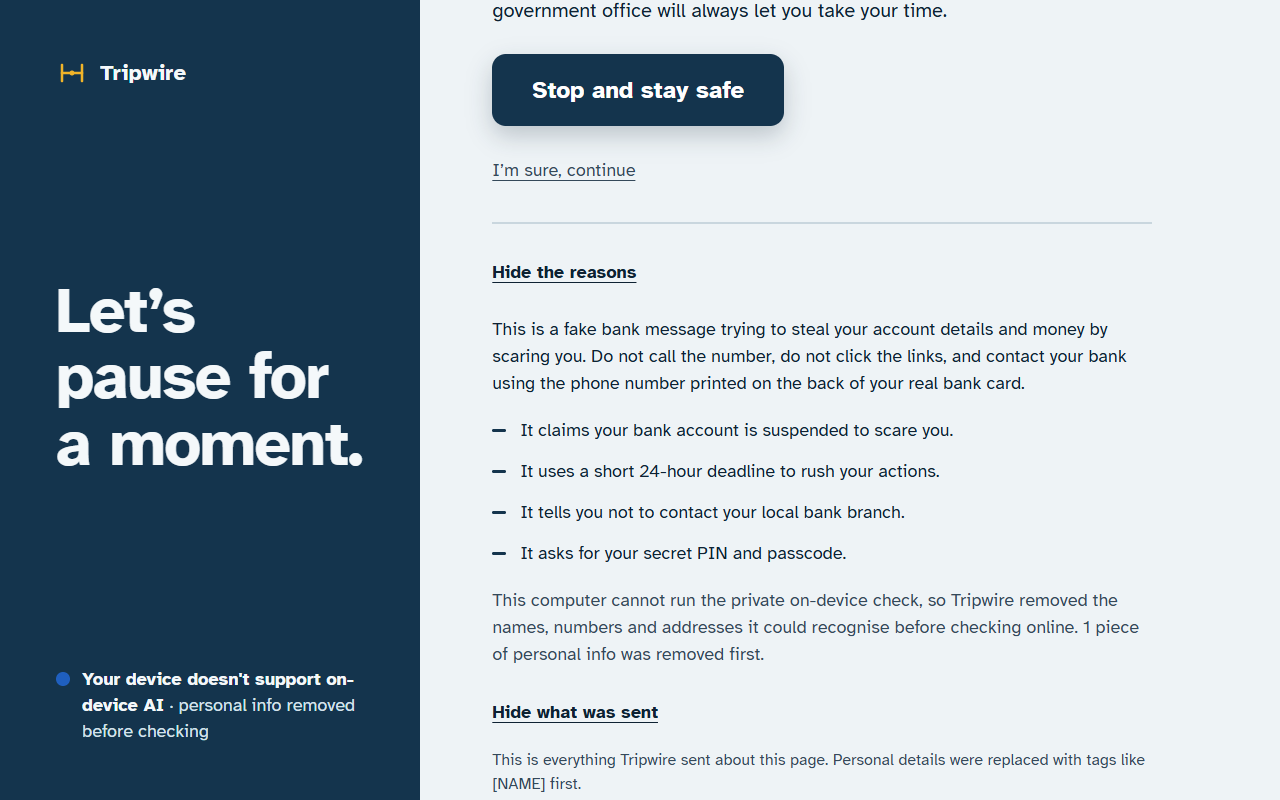
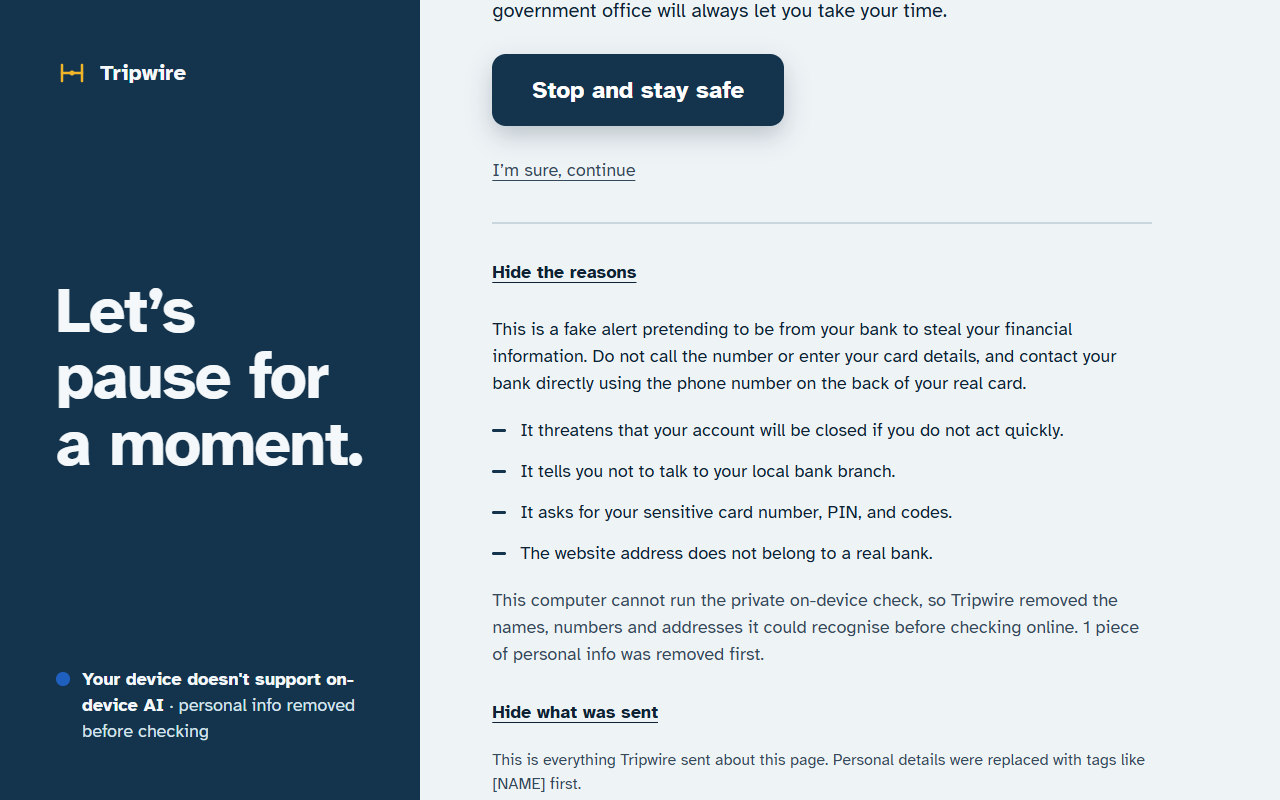
Say so while a held call or card field waits for its check; state App Check and pairing limits plainly
- A phone link or card field held for a check shows a notice instead of looking ignored
- The card field stays held until the check answers, not for a fixed 8 seconds
- Hosted test covers the held phone link; README states the debug-token and six-digit-code limits

diff --git a/src/entrypoints/content/index.tsx b/src/entrypoints/content/index.tsx
@@ -20,6 +20,7 @@ import type { Trigger, Verdict } from '../../inference/schemas';
 import { send, type AssessReply, type ToContent } from '../../messaging';
 import { describeField, isCardField, mayInspectValue, valueIsCardNumber } from '../../tripwires/cardField';
 import { Banner } from '../../ui/Banner';
+import { BANNER } from '../../ui/copy';
 import { applyLocale } from '../../ui/locale';
 import { Pause } from '../../ui/Pause';
 
@@ -37,7 +38,11 @@ const ACTION_COOLDOWN_MS = 8_000;
 const GIFT_FIELD = /gift\s*-?\s*card|card\s*(?:pin|code)|claim\s*code|redemption\s*code|voucher\s*code|itunes|google\s*play\s*code|steam\s*(?:wallet|code)/i;
 const WALLET_FIELD = /wallet|bitcoin|\bbtc\b|\beth(?:ereum)?\b|\busdt\b|crypto|recipient\s*address/i;
 
-type View = { kind: 'none' } | { kind: 'banner'; verdict: Verdict } | { kind: 'pause'; verdict: Verdict };
+type View =
+  | { kind: 'none' }
+  | { kind: 'checking'; what: 'call' | 'card' }
+  | { kind: 'banner'; verdict: Verdict }
+  | { kind: 'pause'; verdict: Verdict };
 
 export default defineContentScript({
   matches: ['http://*/*', 'https://*/*'],
@@ -113,6 +118,13 @@ function startTopFrame(ctx: ContentScriptContext): void {
   function App() {
     const v = useSyncExternalStore(subscribe, () => view);
     if (v.kind === 'banner') return <Banner verdict={v.verdict} onDismiss={dismiss} />;
+    if (v.kind === 'checking') {
+      return (
+        <div className="tw tw-checking" role="status">
+          {v.what === 'call' ? BANNER.checkingCall : BANNER.checkingCard}
+        </div>
+      );
+    }
     if (v.kind === 'pause') {
       return (
         <div className="tw-overlay">
@@ -206,6 +218,26 @@ function startTopFrame(ctx: ContentScriptContext): void {
   }, 400);
   ctx.onInvalidated(() => clearInterval(guard));
 
+  /**
+   * While a held action waits for its check, say so. A check can take several seconds, and a
+   * click that seems to do nothing looks broken. Shown only if the wait is long enough to notice.
+   */
+  function whileChecking<T>(what: 'call' | 'card', job: Promise<T>): Promise<T> {
+    let done = false;
+    const timer = setTimeout(() => {
+      void ensureUi()
+        .then(() => {
+          if (!done && view.kind === 'none') setView({ kind: 'checking', what });
+        })
+        .catch(() => undefined);
+    }, 350);
+    return job.finally(() => {
+      done = true;
+      clearTimeout(timer);
+      if (view.kind === 'checking') setView({ kind: 'none' });
+    });
+  }
+
   function hide(): void {
     unlock?.();
     if (view.kind !== 'none') setView({ kind: 'none' });
@@ -293,15 +325,17 @@ function startTopFrame(ctx: ContentScriptContext): void {
         const info = describeField(el);
         if (info.type.toLowerCase() === 'password') return;
         if (isCardField(info)) {
-          // If this page has not been judged yet, the field is held (read-only) for the few
-          // seconds the check takes, so a card number cannot be typed before the answer.
+          // If this page has not been judged yet, the field is held (read-only) until the check
+          // answers, so a card number cannot be typed first. The check itself is bounded by the
+          // router's timeouts; the cap here is only a backstop so a field is never stuck.
           const hold = !last && !acknowledged && !el.readOnly;
           if (hold) el.readOnly = true;
           const release = () => {
             if (hold) el.readOnly = false;
           };
-          const limit = setTimeout(release, 8000);
-          return void onAction('card_entry').finally(() => {
+          const limit = setTimeout(release, 40_000);
+          const check = onAction('card_entry');
+          return void (hold ? whileChecking('card', check) : check).finally(() => {
             clearTimeout(limit);
             release();
           });
@@ -341,12 +375,14 @@ function startTopFrame(ctx: ContentScriptContext): void {
         const link = target instanceof Element ? target.closest<HTMLAnchorElement>('a[href^="tel:" i]') : null;
         if (!link) return;
         if (acknowledged || view.kind === 'pause') return;
+        // Already checking for an earlier click: keep holding, do not start a second check.
+        if (view.kind === 'checking') return void event.preventDefault();
         if (last && last.state !== 'safe') return void onAction('phone_call', event);
         // Hold the call until the page AS IT IS NOW has been checked, so the dialer cannot open first
         // (a page may have changed since it was last read).
         event.preventDefault();
         const href = link.href;
-        void assess('phone_call').then((reply) => {
+        void whileChecking('call', assess('phone_call')).then((reply) => {
           if (reply?.verdict.state === 'tripped' && !reply.acknowledged) show({ kind: 'pause', verdict: reply.verdict });
           else location.href = href;
         });

diff --git a/src/ui/tripwire.css b/src/ui/tripwire.css
@@ -413,6 +413,22 @@
 }
 
 /* ---------- in-page: caution banner ---------- */
+/* A held action (a call, a card field) is waiting for its check: say so, so the click never looks ignored. */
+.tw-checking {
+  position: fixed;
+  left: 50%;
+  bottom: 24px;
+  transform: translateX(-50%);
+  z-index: 2147483646;
+  max-width: min(640px, calc(100vw - 32px));
+  padding: 16px 24px;
+  background: var(--tw-deep);
+  color: var(--tw-on-deep);
+  font: 700 1.25rem/1.4 var(--tw-font);
+  border-radius: var(--tw-radius-lg);
+  box-shadow: var(--tw-shadow-float);
+}
+
 .tw-banner {
   position: fixed;
   top: 16px;

diff --git a/src/ui/locales/fr.ts b/src/ui/locales/fr.ts
@@ -53,6 +53,8 @@ export const FR: LocaleBundle = {
     sub: 'Vous n’êtes pas obligé de faire ce que cette page demande.',
     failSafeHeadline: 'Tripwire n’a pas pu finir de vérifier cette page.',
     failSafeSub: 'Par prudence, considérez comme suspect tout ce qu’elle vous demande.',
+    checkingCall: 'Un instant. Tripwire vérifie cette page avant de lancer l’appel.',
+    checkingCard: 'Un instant. Tripwire vérifie cette page avant que vous ne saisissiez un numéro de carte.',
   },
   TRIP_LEAD: {
     passive: 'Cette page présente des signes nets d’arnaque.',

diff --git a/src/ui/locales/es.ts b/src/ui/locales/es.ts
@@ -53,6 +53,8 @@ export const ES: LocaleBundle = {
     sub: 'No tiene que hacer nada de lo que pide esta página.',
     failSafeHeadline: 'Tripwire no pudo terminar de revisar esta página.',
     failSafeSub: 'Para estar seguro, trate como sospechoso cualquier cosa que le pida.',
+    checkingCall: 'Un momento. Tripwire está revisando esta página antes de iniciar la llamada.',
+    checkingCard: 'Un momento. Tripwire está revisando esta página antes de que escriba un número de tarjeta.',
   },
   TRIP_LEAD: {
     passive: 'Esta página muestra señales claras de estafa.',

diff --git a/src/ui/copy.ts b/src/ui/copy.ts
@@ -81,6 +81,8 @@ export const BANNER = {
   sub: 'You do not have to do anything this page asks.',
   failSafeHeadline: 'Tripwire could not finish checking this page.',
   failSafeSub: 'To be careful, treat anything it asks for as suspicious.',
+  checkingCall: 'One moment. Tripwire is checking this page before the call starts.',
+  checkingCard: 'One moment. Tripwire is checking this page before you type a card number.',
 } as const;
 
 /* ------------------------------------------------------------------ */

diff --git a/README.md b/README.md
@@ -141,8 +141,8 @@ What Tripwire does about a page that fights back ([tests/hostile.test.ts](tests/
 | Press "I'm sure, continue" itself | Clicks made by page script are marked untrusted by the browser and ignored; only a real click or key press counts. Checked end to end. |
 | Wear the checker out with harmless changes, then show the scam | The scan budget refills with time (one scan every 20 seconds), so it cannot be spent for good. |
 | Delete the warning from the page | Tripwire puts it back and re-locks the page. If the page keeps removing it, the pause moves to an extension page the site cannot touch. |
-| Open the phone dialer before the check finishes | A phone link on a page that has not been checked yet is held until it has. |
-| Get a card number typed before the check finishes | A card field on a page that has not been checked yet is held read-only until it has. |
+| Open the phone dialer before the check finishes | A phone link on a page that has not been checked yet is held until it has, with a notice saying the page is being checked. |
+| Get a card number typed before the check finishes | A card field on a page that has not been checked yet is held read-only until the check answers, with the same notice. |
 | Find out the visitor has Tripwire, and behave | The extension answers a "are you there" ping only on the practice pages, never on ordinary sites. |
 | Skip the suspicious page entirely (a caller says "go to this site and install this") | A remote-access tool download always asks, once per tool, even with no suspicious page open. |
 
@@ -253,6 +253,8 @@ With the on-device model, 36 of the 50 samples were decided on the device, 8 nee
 | First run, original design | 6 / 10 | 0 / 16 | median 51 s |
 | After the fixes below | **16 / 16** | **0 / 28** | **median 3.7 s, 90th percentile 7.4 s** |
 
+Read the second row with care: the fixes were made after seeing the first run, so only 6 of the 16 scams and 11 of the 28 pages were still unseen when they were run. Details below the list.
+
 The first run was a bad result and it was right:
 
 - **Four of ten scams never reached a model.** The keyword gate was tuned to the main corpus and missed a "grandchild needs bail" message, a utility shut-off notice, a refund call and a customs fee. The gate now looks at the shape of the request.
@@ -267,7 +269,7 @@ Because those fixes were made after seeing round one, a second round of six new 
 - End-to-end in Chromium (`npm run e2e`): 13 of 13 steps, including settings, the paused download, and a page that keeps deleting the warning. Result file: [eval-results/e2e.json](eval-results/e2e.json).
 - Live against the real project (`npm run live`): App Check token, hybrid call, Spanish explanations, pairing, single-use code, family alert. Result file: [eval-results/live-checks.json](eval-results/live-checks.json).
 - **App Check refuses robots, including ours.** On 16 Nov the hosted site began rejecting the automated test browser ("App attestation failed" from reCAPTCHA Enterprise), so pairing failed and the hosted demo fell back to built-in rules, with the badge saying so. The hosted demo was checked in an ordinary browser the same day and got its cloud answer. The automated runs of the hosted site now present the project's App Check debug token (read from `.env`, set only inside the test browser, never deployed); `--recaptcha` runs them as a robot. `node scripts/hosted-appcheck.mjs` shows the refusal, and the family page now says the browser could not be confirmed instead of blaming the internet.
-- Hosted demo with no extension (`npm run hosted`): the practice pages are flagged in a plain browser, the phone number on the page is absent from what was sent, and the ordinary checkout stays silent. Result file: [eval-results/hosted-demo.json](eval-results/hosted-demo.json).
+- Hosted demo with no extension (`npm run hosted`): the practice pages are flagged in a plain browser, the phone number on the page is absent from what was sent, the ordinary checkout stays silent, and a phone link clicked before the check has answered is held with a "checking this page" notice. Result file: [eval-results/hosted-demo.json](eval-results/hosted-demo.json).
 - Accessibility: axe-core on every screen in the end-to-end run. WCAG 2.2 A/AA: 0 problems. All text meets AAA contrast.
 - Languages: the banner, pause, reasons and "you stopped" page are in English, Spanish and French, following the browser. Model-written reasons were run live in Spanish and French on the device (0 bytes sent) and Spanish through the cloud.
 
@@ -278,6 +280,8 @@ Stated plainly so nobody is surprised:
 - **Webmail.** In Gmail, Outlook and Yahoo Mail only an opened message is read, never the inbox list. This relies on each site's page structure and has not been tested against real mailboxes.
 - **On-device inside the loaded extension, by automation.** The automated on-device runs go through a web page or the hosted demo. The loaded extension itself was checked by hand in desktop Chrome 157 on 14 Nov 2026: the offscreen document reported the model as ready, the fake bank practice page was paused with "Checked on your device · 0 bytes sent", and the same check passed with Wi-Fi off.
 - **The Android app has not been run.** It builds and its unit tests pass, but the machine it was built on cannot start the Android emulator and no phone was attached.
+- **App Check does not attest the extension in this build.** The extension presents a debug token that is compiled into the built extension, so anyone who unpacks a build can copy it. That is accepted for this submission, and it means App Check here keeps out callers who have neither the token nor a browser that passes reCAPTCHA, not a determined one. A store release needs a token endpoint (a Cloud Function), which is not written because it needs a paid plan.
+- **Pairing codes are six digits.** Any signed-in browser that passes App Check can try codes for the five minutes one is live. A code works once and the extension shows and can remove the connection, but there is no server-side limit on guesses.
 - **Real users.** Nobody in the target age group has used it yet.
 - **Scale.** The corpora are small (50 tuning samples, 16 held-out scams, 28 real pages). They are enough to catch design mistakes, as above, not to state an accuracy figure.
 - **Speed.** A check takes about 3 to 4 seconds on the device and 5 to 7 seconds when the cloud is also asked, on a desktop with an RTX 4060. Reading a page is never blocked by this, but a pause can appear a few seconds after the page does.
